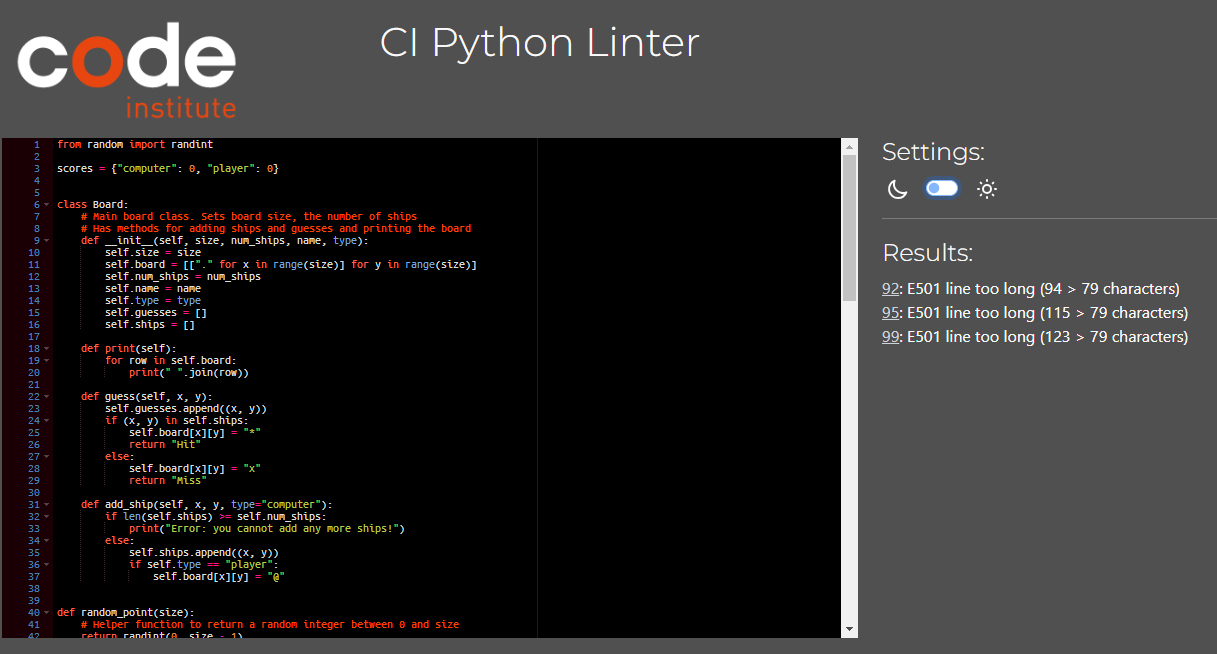
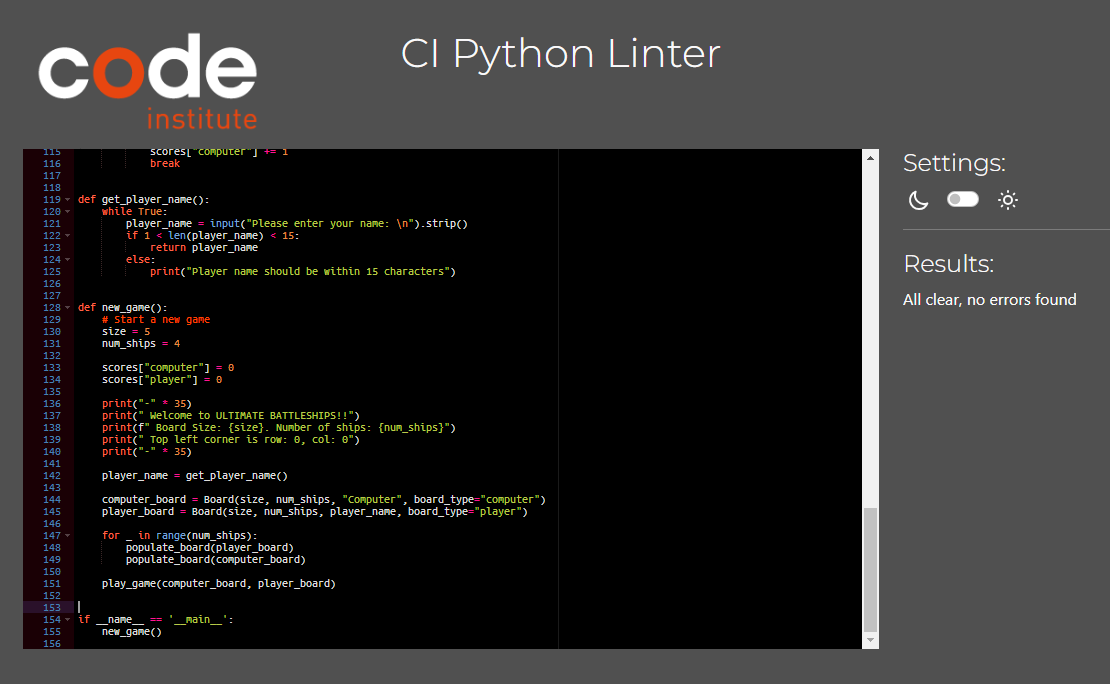
Fixing bugs

Changed region(s): [[0.0, 0.0306, 0.9802, 0.9786], [0.3063, 0.0306, 0.6432, 0.1223]]

diff --git a/run.py b/run.py
@@ -2,46 +2,56 @@ from random import randint
 
 scores = {"computer": 0, "player": 0}
 
+
 class Board:
-    # Main board class. Sets board size, the number of ships, the player's name and the board type (player board or computer) 
+    # Main board class.
+    # Sets board size, the number of ships, the player's name,
+    # and the board type (player board or computer).
     # Has methods for adding ships and guesses and printing the board
-    def __init__(self, size, num_ships, name, type):
+
+    def __init__(self, size, num_ships, name, board_type):
         self.size = size
-        self.board = [["." for x in range(size)] for y in range(size)]
+        self.board = [["." for _ in range(size)] for _ in range(size)]
         self.num_ships = num_ships
         self.name = name
-        self.type = type
+        self.board_type = board_type
         self.guesses = []
         self.ships = []
 
-    def print(self): 
-        for row in self.board: 
+    def print_board(self):
+        for row in self.board:
             print(" ".join(row))
 
-    def guess(self, x, y): 
-        self.guesses.append((x, y)) 
-        if (x, y) in self.ships: 
-            self.board[x][y] = "*" 
+    def guess(self, x, y):
+        if (x, y) in self.guesses:
+            print("You already guessed this position.")
+            return "Duplicate"
+        self.guesses.append((x, y))
+        if (x, y) in self.ships:
+            self.board[x][y] = "*"
             return "Hit"
         else:
             self.board[x][y] = "x"
             return "Miss"
 
-    def add_ship(self, x, y, type="computer"):
+    def add_ship(self, x, y):
         if len(self.ships) >= self.num_ships:
             print("Error: you cannot add any more ships!")
         else:
-            self.ships.append((x, y)) 
-            if self.type == "player": 
+            self.ships.append((x, y))
+            if self.board_type == "player":
                 self.board[x][y] = "@"
 
+
 def random_point(size):
-    # Helper function to return a random integer between 0 and size
+    # Helper function that generates a random integer from 0 to size
     return randint(0, size - 1)
+
 
 def valid_coordinates(x, y, board):
     # Check if coordinates are within the board size
     return 0 <= x < board.size and 0 <= y < board.size
+
 
 def populate_board(board):
     # Add ships randomly to the board
@@ -51,6 +61,7 @@ def populate_board(board):
         if valid_coordinates(x, y, board) and (x, y) not in board.ships:
             board.add_ship(x, y)
 
+
 def make_guess(board):
     # Take a guess from the user
     try:
@@ -59,6 +70,9 @@ def make_guess(board):
         if not valid_coordinates(x, y, board):
             print("Invalid coordinates! Try again.")
             make_guess(board)
+        elif (x, y) in board.guesses:
+            print("You already guessed this position. Try again.")
+            make_guess(board)
         else:
             result = board.guess(x, y)
             print("Result:", result)
@@ -66,42 +80,50 @@ def make_guess(board):
         print("Invalid input! Try again.")
         make_guess(board)
 
+
 def play_game(computer_board, player_board):
     """ Play the game """
     while True:
         print("Computer's Board:")
-        computer_board.print()
+        computer_board.print_board()
         print("\nYour Board:")
-        player_board.print()
+        player_board.print_board()
         print("\n")
-        
+
         print("Your Turn:")
         make_guess(computer_board)
         print("\n")
-        
+
         print("Computer's Turn:")
         computer_guess_x = random_point(player_board.size)
         computer_guess_y = random_point(player_board.size)
         result = player_board.guess(computer_guess_x, computer_guess_y)
-        print(f"Computer guessed ({computer_guess_x}, {computer_guess_y}) - Result: {result}")
+        print(f"Computer guessed ({computer_guess_x}, {computer_guess_y}) "
+              f"- Result: {result}")
         print("\n")
 
-        if all((x, y) in player_board.guesses for x in range(player_board.size) for y in range(player_board.size)):
+        if all((x, y) in player_board.guesses
+               for x in range(player_board.size)
+               for y in range(player_board.size)):
             print("Congratulations! You've won!")
             scores["player"] += 1
             break
-        elif all((x, y) in computer_board.guesses for x in range(computer_board.size) for y in range(computer_board.size)):
+        elif all((x, y) in computer_board.guesses
+                 for x in range(computer_board.size)
+                 for y in range(computer_board.size)):
             print("Computer wins!")
             scores["computer"] += 1
             break
 
-def get_player_name() :
-   while True:
-     player_name = input("Please enter your name: \n").strip()
-     if len(player_name) > 1 and len(player_name) < 15:
+
+def get_player_name():
+    while True:
+        player_name = input("Please enter your name: \n").strip()
+        if 1 < len(player_name) < 15:
             return player_name
-     else:
-        print("Player name should be within 15 characters")  
+        else:
+            print("Player name should be within 15 characters")
+
 
 def new_game():
     # Start a new game
@@ -119,8 +141,8 @@ def new_game():
 
     player_name = get_player_name()
 
-    computer_board = Board(size, num_ships, "Computer", type="computer")
-    player_board = Board(size, num_ships, player_name, type="player")
+    computer_board = Board(size, num_ships, "Computer", board_type="computer")
+    player_board = Board(size, num_ships, player_name, board_type="player")
 
     for _ in range(num_ships):
         populate_board(player_board)
@@ -128,6 +150,6 @@ def new_game():
 
     play_game(computer_board, player_board)
 
-if __name__ == '__main__':
 
+if __name__ == '__main__':
     new_game()
